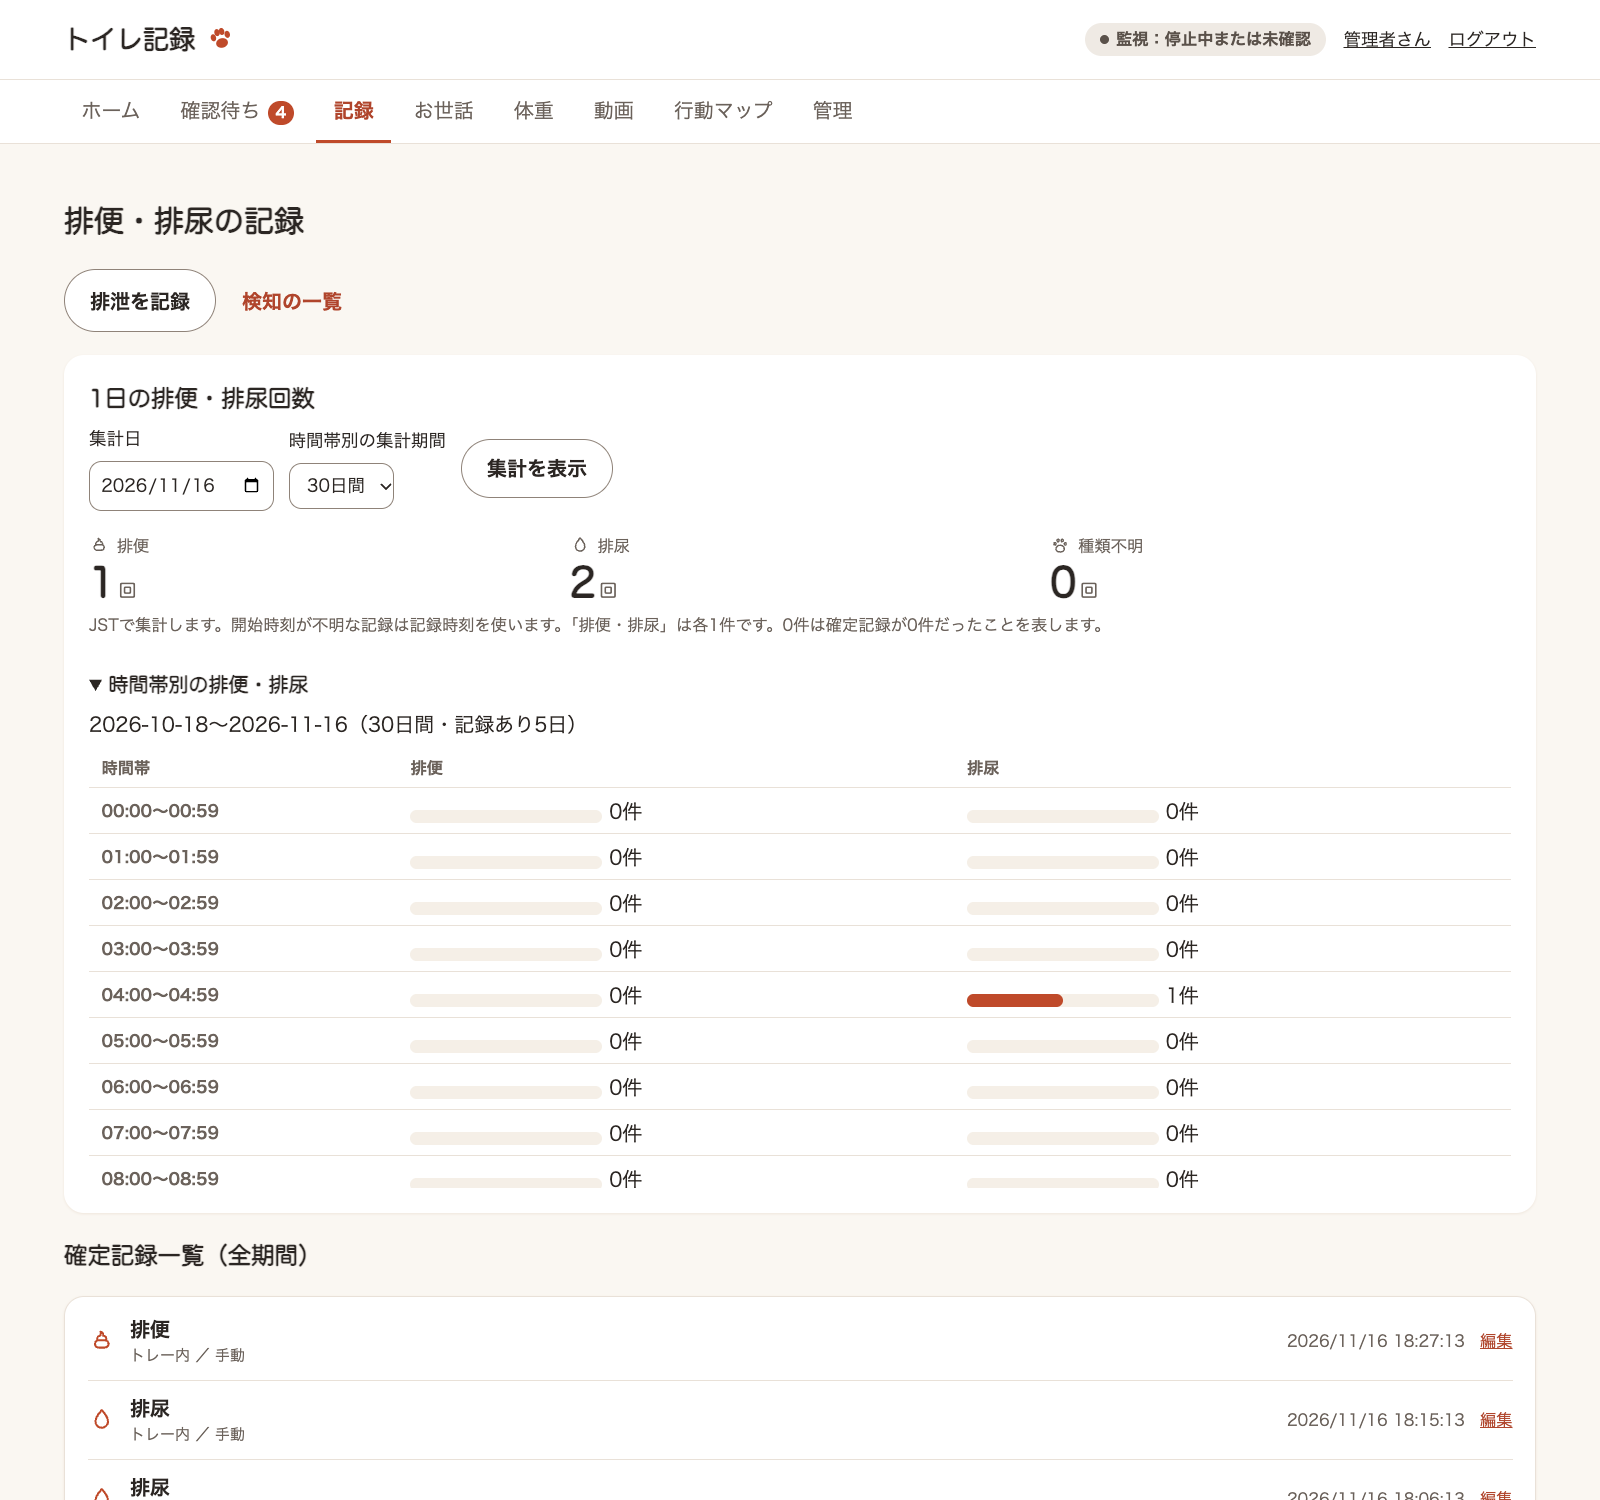
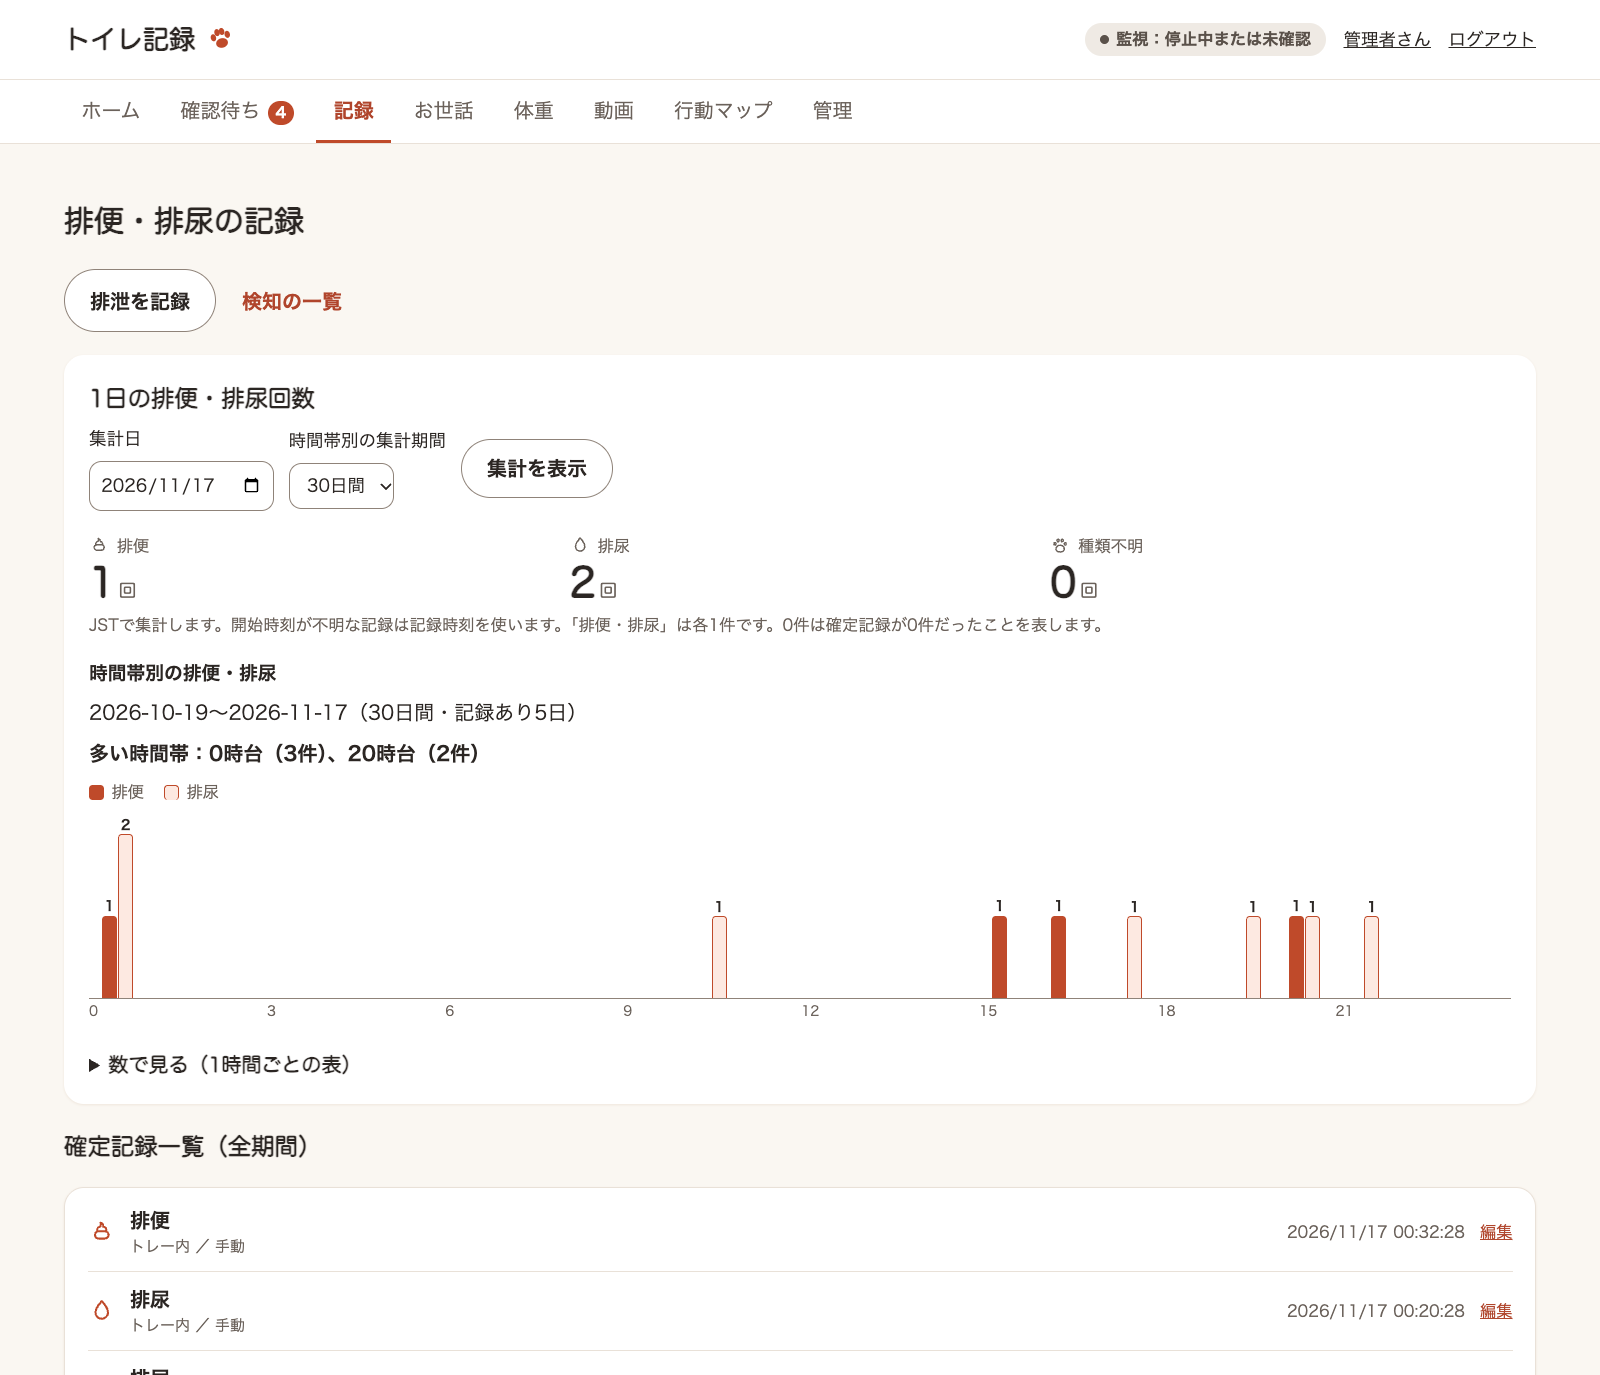
feat: 記録の時間帯別の集計を24時間の棒グラフにし、表をたたむ (#202)
排便・排尿の件数を24時間の棒グラフで見せ、件数のある棒には数を添える。多い時間帯を
言葉でも示す。1時間ごとの表は「数で見る」にたたみ、確定記録の一覧を上に寄せる。
棒の高さは CSP に合わせて CSS の段階（level-0〜10）で示す。

Closes #189

diff --git a/src/poop_detector/gui/templates/style.css b/src/poop_detector/gui/templates/style.css
@@ -159,5 +159,7 @@ main table{display:block;overflow-x:auto;max-width:100%}main th{white-space:nowr
 .print-summary table{margin-bottom:12px}.print-summary th,.print-summary td{border-bottom:1px solid var(--border)}
 @media print{:root[data-appearance]{color-scheme:light}body{background:var(--surface)}.site-header,.site-menu,.sub-menu,.tab-bar,.no-print{display:none}body{padding-bottom:0}main{padding:0;max-width:none}.print-summary table{display:table;font-size:11px}.print-summary th,.print-summary td{padding:2px 8px}.print-summary section{break-inside:avoid}}
 .benchmark-candidate{margin-top:24px;padding-top:8px;border-top:1px solid var(--border)}.benchmark-candidate input:not([type]){width:100%;max-width:32em;box-sizing:border-box}
+/* 記録の画面の時間帯別の棒グラフ（24時間）。高さは level-0〜level-10 の段階で示す。 */
+.hourly-title{margin:16px 0 4px;font-size:15px}.hourly-busiest{font-weight:600}.hourly-figure{margin:8px 0 12px;background:none;min-height:0;text-align:left;overflow:visible;border-radius:0}.hourly-legend{display:flex;align-items:center;gap:6px;font-size:13px;color:var(--muted);margin-bottom:6px}.bar-key{display:inline-block;width:12px;height:12px;border-radius:3px}.bar-key+.bar-key,.hourly-legend .bar-urine{margin-left:10px}.hourly-chart{display:grid;grid-template-columns:repeat(24,minmax(0,1fr));gap:2px;align-items:end;height:150px;border-bottom:1px solid var(--border-strong);padding-top:18px}.hour-col{display:flex;flex-direction:column;justify-content:flex-end;height:100%;min-width:0;position:relative}.hour-bars{display:flex;align-items:flex-end;justify-content:center;gap:1px;height:100%}.hourly-chart .bar{position:relative;flex:1;max-width:12px;border-radius:3px 3px 0 0}.bar b{position:absolute;bottom:100%;left:50%;transform:translateX(-50%);font-size:11px;font-weight:700;color:var(--text);line-height:1.4}.bar-feces{background:var(--primary)}.bar-urine{background:var(--primary-soft);border:1px solid var(--primary);border-bottom:0}.hour-label{position:absolute;top:100%;left:0;font-size:11px;color:var(--muted);padding-top:2px}.hourly-figure{padding-bottom:16px}.hourly-chart .level-0{height:0%}.hourly-chart .level-1{height:10%}.hourly-chart .level-2{height:20%}.hourly-chart .level-3{height:30%}.hourly-chart .level-4{height:40%}.hourly-chart .level-5{height:50%}.hourly-chart .level-6{height:60%}.hourly-chart .level-7{height:70%}.hourly-chart .level-8{height:80%}.hourly-chart .level-9{height:90%}.hourly-chart .level-10{height:100%}.hourly-chart .level-0{height:0;border:0}
 /* 一覧を日ごとに区切る見出し（今日・きのう・月日）。 */
 .day-heading{margin:18px 0 6px;font-size:13px;font-weight:700;color:var(--muted);letter-spacing:.02em}.review-list{margin-top:0}#clip-list .day-heading{margin:0;padding:8px 12px 4px;position:sticky;top:0;background:var(--surface);z-index:1}#clip-list .day-heading:not(:first-child){border-top:1px solid var(--border)}

diff --git a/src/poop_detector/gui/templates/records.html b/src/poop_detector/gui/templates/records.html
@@ -7,7 +7,20 @@
 {%- for value in stats.periods -%}
 <option value="{{ value }}"{% if value == stats.period %} selected{% endif %}>{{ value }}日間</option>
 {%- endfor -%}
-</select></label><button class="secondary">集計を表示</button></form><div class="stats">{{ stat("排便", stats.daily.feces, "回", "feces") }}{{ stat("排尿", stats.daily.urine, "回", "urine") }}{{ stat("種類不明", stats.daily.unspecified, "回", "paw") }}</div><p class="note">{{ timezone }}で集計します。開始時刻が不明な記録は記録時刻を使います。「排便・排尿」は各1件です。0件は確定記録が0件だったことを表します。</p><details open><summary>時間帯別の排便・排尿</summary><p>{{ stats.start }}〜{{ stats.day }}（{{ stats.length }}日間・記録あり{{ stats.recorded_days }}日）</p><div class="hourly-scroll" role="region" aria-label="1時間ごとの集計表" tabindex="0"><table id="hourly-stats"><thead><tr><th scope="col">時間帯</th><th scope="col">排便</th><th scope="col">排尿</th></tr></thead><tbody>
+</select></label><button class="secondary">集計を表示</button></form><div class="stats">{{ stat("排便", stats.daily.feces, "回", "feces") }}{{ stat("排尿", stats.daily.urine, "回", "urine") }}{{ stat("種類不明", stats.daily.unspecified, "回", "paw") }}</div><p class="note">{{ timezone }}で集計します。開始時刻が不明な記録は記録時刻を使います。「排便・排尿」は各1件です。0件は確定記録が0件だったことを表します。</p><h4 class="hourly-title">時間帯別の排便・排尿</h4><p>{{ stats.start }}〜{{ stats.day }}（{{ stats.length }}日間・記録あり{{ stats.recorded_days }}日）</p>
+{% if stats.busiest %}<p class="hourly-busiest">多い時間帯：{{ stats.busiest }}</p>
+<figure class="hourly-figure"><div class="hourly-legend" aria-hidden="true"><span class="bar-key bar-feces"></span>排便 <span class="bar-key bar-urine"></span>排尿</div><div class="hourly-chart" aria-hidden="true">
+{%- for col in stats.chart -%}
+<div class="hour-col"><div class="hour-bars">
+{%- for bar in col.bars -%}
+<span class="bar bar-{{ bar.kind }} level-{{ bar.level }}">{% if bar.count %}<b>{{ bar.count }}</b>{% endif %}</span>
+{%- endfor -%}
+</div><span class="hour-label">{{ col.label }}</span></div>
+{%- endfor -%}
+</div></figure>
+{% else %}<p class="note">この期間の確定記録はありません。</p>{% endif %}
+<details>
+<summary>数で見る（1時間ごとの表）</summary><div class="hourly-scroll" role="region" aria-label="1時間ごとの集計表" tabindex="0"><table id="hourly-stats"><thead><tr><th scope="col">時間帯</th><th scope="col">排便</th><th scope="col">排尿</th></tr></thead><tbody>
 {%- for hour, counts in stats.hourly -%}
 <tr><th scope="row">{{ "%02d"|format(hour) }}:00〜{{ "%02d"|format(hour) }}:59</th>
 {%- for kind in ("feces", "urine") -%}

diff --git a/src/poop_detector/gui/pages.py b/src/poop_detector/gui/pages.py
@@ -350,6 +350,45 @@ def event_url(event_id: str) -> str:
     return f"{EVENTS_PAGE}?" + urlencode({"filter": "all", "id": event_id})
 
 
+# 時間帯別の棒グラフ。棒の高さは CSS の level-0〜level-10 の段階で示す（CSP でインラインの
+# style を使えないため）。軸の目盛りは CHART_TICK 時間ごと、多い時間帯は BUSIEST 件まで挙げる。
+CHART_LEVELS = 10
+CHART_TICK = 3
+BUSIEST = 2
+CHART_KINDS = ("feces", "urine")
+
+
+def _bar_level(count: int, scale: int) -> int:
+    """件数を棒の高さの段階にする。1件でもあれば、見える高さ（1）にする。"""
+    if count <= 0:
+        return 0
+    return max(1, round(count * CHART_LEVELS / scale))
+
+
+def hourly_chart(hourly: Sequence[Mapping[str, int]], scale: int) -> list[dict[str, Any]]:
+    """24時間の棒グラフの列。各列に排便・排尿の件数と棒の高さの段階を持つ。"""
+    return [
+        {
+            "hour": hour,
+            "label": str(hour) if hour % CHART_TICK == 0 else "",
+            "bars": [
+                {"kind": kind, "count": counts[kind], "level": _bar_level(counts[kind], scale)}
+                for kind in CHART_KINDS
+            ],
+        }
+        for hour, counts in enumerate(hourly)
+    ]
+
+
+def busiest_hours(hourly: Sequence[Mapping[str, int]]) -> str:
+    """排便・排尿の多い時間帯を言葉で示す（例：「7時台（3件）、19時台（1件）」）。"""
+    totals = [
+        (sum(counts[kind] for kind in CHART_KINDS), hour) for hour, counts in enumerate(hourly)
+    ]
+    top = sorted((item for item in totals if item[0] > 0), key=lambda item: (-item[0], item[1]))
+    return "、".join(f"{hour}時台（{total}件）" for total, hour in top[:BUSIEST])
+
+
 def record_stats(records: Iterable[EventRow], query: Query) -> dict[str, Any]:
     """記録の画面の、1日の件数と時間帯別の件数。"""
     try:
@@ -361,6 +400,7 @@ def record_stats(records: Iterable[EventRow], query: Query) -> dict[str, Any]:
         period = "30"
     start = date.fromordinal(max(1, day.toordinal() - int(period) + 1))
     daily, hourly, recorded_days = summarize_records(records, start, day)
+    scale = max(1, *(counts[kind] for counts in hourly for kind in CHART_KINDS))
     return {
         "day": day,
         "period": period,
@@ -370,7 +410,9 @@ def record_stats(records: Iterable[EventRow], query: Query) -> dict[str, Any]:
         "daily": daily,
         "hourly": list(enumerate(hourly)),
         "recorded_days": recorded_days,
-        "scale": max(1, *(counts[kind] for counts in hourly for kind in ("feces", "urine"))),
+        "scale": scale,
+        "chart": hourly_chart(hourly, scale),
+        "busiest": busiest_hours(hourly),
     }
 
 

diff --git a/tests/test_hourly_chart.py b/tests/test_hourly_chart.py
@@ -1,0 +1,68 @@
+"""記録の画面の時間帯別の集計を、24時間の棒グラフと、たたんだ表で見せることを検証する。"""
+
+import re
+
+from support import request
+
+
+def records_page(server, query="date=2026-11-08&days=7"):
+    status, body = request(server, "GET", f"/records?{query}")
+    assert status == 200
+    return body.decode()
+
+
+def seed(store):
+    store.add_excretion("feces", "2026-11-08T07:10:00+09:00")
+    store.add_excretion("feces", "2026-11-07T07:40:00+09:00")
+    store.add_excretion("urine", "2026-11-08T07:20:00+09:00")
+    store.add_excretion("urine", "2026-11-08T19:00:00+09:00")
+
+
+def test_chart_has_a_column_for_every_hour_with_counts_as_text(gui):
+    server, store, _ = gui
+    seed(store)
+    html = records_page(server)
+    chart = re.search(r'<div class="hourly-chart".*?</div></figure>', html, re.S)[0]
+    assert chart.count('class="hour-col"') == 24
+    # 件数のある棒には数を添える（色だけで伝えない）。0件の棒には数を出さない。
+    assert re.search(r'<span class="bar bar-feces level-10"><b>2</b></span>', chart)
+    assert re.search(r'<span class="bar bar-urine level-5"><b>1</b></span>', chart)
+    assert '<span class="bar bar-feces level-0"></span>' in chart
+    # 軸の目盛りは3時間ごと。
+    assert re.findall(r'<span class="hour-label">(\d+)</span>', chart) == [
+        "0",
+        "3",
+        "6",
+        "9",
+        "12",
+        "15",
+        "18",
+        "21",
+    ]
+
+
+def test_busiest_hours_are_named_in_words(gui):
+    server, store, _ = gui
+    seed(store)
+    html = records_page(server)
+    assert "多い時間帯：7時台（3件）、19時台（1件）" in html
+
+
+def test_table_is_still_readable_but_folded(gui):
+    server, store, _ = gui
+    seed(store)
+    html = records_page(server)
+    folded = re.search(
+        r"<details>\s*<summary>数で見る（1時間ごとの表）</summary>.*?</details>", html, re.S
+    )
+    assert folded
+    assert 'id="hourly-stats"' in folded[0]
+    # 時間帯別の集計そのものは、開いたまま（表だけをたたむ）。
+    assert "<details open><summary>時間帯別の排便・排尿</summary>" not in html
+
+
+def test_no_records_says_so_instead_of_an_empty_chart(gui):
+    server, _, _ = gui
+    html = records_page(server, "date=2020-01-01&days=7")
+    assert "この期間の確定記録はありません" in html
+    assert "多い時間帯" not in html

diff --git a/docs/screens.md b/docs/screens.md
@@ -21,7 +21,7 @@ GUI の画面の配置と遷移、CLI に残す操作をまとめます（Issue 
 | 体重の記録 | `/weight` | 全員 | g・kgでの測定入力と訂正、生年月日、最新の体重（大きな数字と前回比）と推移のグラフ |
 | お世話の記録 | `/care` | 全員 | フードの銘柄・給餌量の入力、シート交換。日ごとに、給餌量の合計とシート交換の回数、その日のお世話・体重・排泄を1本の時系列で見せる |
 | 確認待ち | `/review` | 全員 | 未ラベルの検知イベントと、排泄に関わる未ラベルの動画を新しい順に並べる（サムネイル・きっかけ・自動判定の候補付き）。保存すると次の件を開く |
-| 記録 | `/records` | 全員 | 日別の回数（大きな数字）と時間帯別の回数、確定記録の一覧（種類のアイコン付きの時系列） |
+| 記録 | `/records` | 全員 | 日別の回数（大きな数字）と時間帯別の回数（24時間の棒グラフ。件数のある棒に数を添え、多い時間帯を言葉でも示す。1時間ごとの表は「数で見る」にたたむ）、確定記録の一覧（種類のアイコン付きの時系列） |
 | 記録 › 検知の一覧 | `/records/events` | 全員 | 検知イベントの履歴（絞り込み。一覧はサムネイルと状態のラベル付き）とラベル付け。まだラベルのない検知には、1回押して保存するボタン（排便・排尿・両方・誤検知）を出し、場所・日時・メモ・種類不明・保留は「くわしく入力」にたたむ。確認待ちが残っているときは、確認待ちへの入口を出す |
 | 記録 › 排泄を記録 | `/records/new` | 全員 | 目視で確認した排泄（通常の手動記録・通知されなかった見逃し）の入力。開始にはいまの時刻を入れておき、種類のボタン（排便・排尿・両方・種類不明）を押すと保存する。見逃しかどうかは「通知は来ましたか？」で選ぶ（保存する値は `manual`・`missed`）。完了とメモは「くわしく入力」にたたむ。保存すると記録の画面へ戻る。ホームの「排泄」と記録の画面から開く（Issue #190） |
 | 動画 | `/clips` | 全員 | 保存した動画を探して見返す場所。一覧（サムネイルと状態のラベル付き。「すべて・未ラベル・ラベル済み」で絞り込める。`?show=`。ラベル・保護・評価の候補を保存したあとも、同じ絞り込みに戻る）・再生・ラベル・確定・保存要求・保護、確認待ちが残っているときの入口、自動判定と旋回候補、判定器の比較に使う評価の候補と条件のタグ。一覧を先に見せるため、保存要求・カメラの警告・録画容量・整理への入口は「動画を保存する・録画容量」（`details`）にたたみ、保存できない・容量に注意のときは見出しにも出す。録画・変換中の動画があれば、状態を数秒ごとに確かめ（`/clips/status`、`static/clip_status.js`）、変わったら読み直す（再生中・入力中は「更新」を促すだけ。タブが裏にあるときは止める）（Issue #187） |

diff --git a/docs/records.md b/docs/records.md
@@ -122,7 +122,7 @@ uv run poop-detector users cancel-invite family@example.org
 
 メニューの「記録」で確認済みの記録を時系列で表示し、「編集」から直せます。
 記録画面では当日の排便・排尿回数を表示します。日付の区切りは設定したタイムゾーンに従います。集計日を変更すると過去の日付も確認でき、
-選んだ日を含む7・30・90日間の記録を1時間ごとに集計できます。開始が不明な場合は記録時刻で集計します。
+選んだ日を含む7・30・90日間の記録を1時間ごとに集計し、24時間の棒グラフ（排便・排尿）と、多い時間帯の言葉で示します。数は「数で見る（1時間ごとの表）」を開くと表で読めます。開始が不明な場合は記録時刻で集計します。
 記録があった日数も表示します。0件は確定記録がなかったことを表すため、実際に排泄がなかった日とは区別してください。
 種類別件数は確認済みの通知・手動記録・見逃しを合わせます。「両方」は排便・排尿へ各1件を加算します。
 
